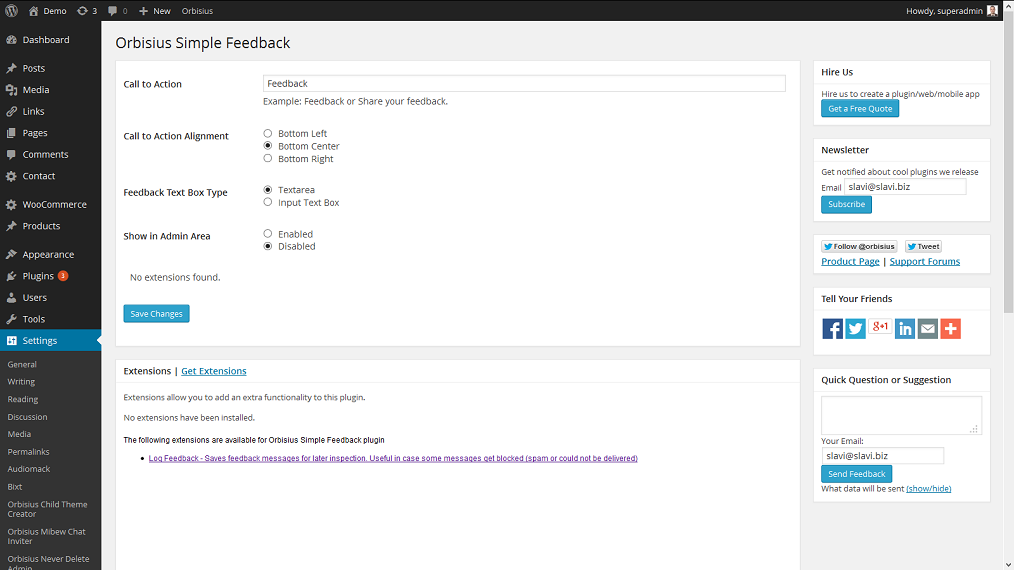
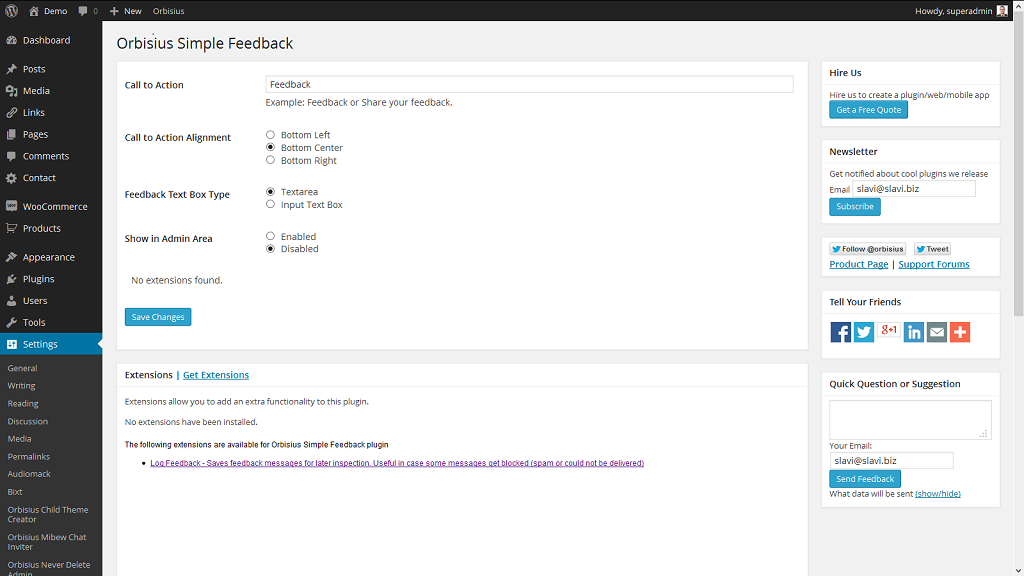
made the feedback box and the email box occupy as much space as the feedback container so it looks nice. updated the 2 of the screenshots files and readme
git-svn-id: https://plugins.svn.wordpress.org/orbisius-simple-feedback/trunk@866357 b8457f37-d9ea-0310-8a92-e5e31aec5664

diff --git a/assets/main.min.css b/assets/main.min.css
@@ -6,9 +6,7 @@
 .orbisius_simple_feedback_container .feedback_wrapper_bottom_center{float:left;margin-left:45%}
 .orbisius_simple_feedback_container .feedback_wrapper_bottom_left{float:left}
 .orbisius_simple_feedback_container .feedback_wrapper_bottom_right{float:right}
-.orbisius_simple_feedback_container .feedback_wrapper_short{_width:5%}
-.orbisius_simple_feedback_container .feedback_text{width:60%;padding:5px}
-.orbisius_simple_feedback_container .feedback_email{width:25%;padding:5px}
+.orbisius_simple_feedback_container .feedback_text,.orbisius_simple_feedback_container .feedback_email{width:96%;padding:5px}
 .orbisius_simple_feedback_container input[type=submit]{padding:3px}
 .orbisius_simple_feedback_container .powered_by{text-align:right;vertical-align:bottom;font-size:12px}
 .orbisius_simple_feedback_container .close_button_link{float:right;color:red;text-decoration:none;font-weight:bolder;padding:3px}

diff --git a/assets/main.css b/assets/main.css
@@ -49,22 +49,13 @@
     float: right;
 }
 
-.orbisius_simple_feedback_container .feedback_wrapper_short {
-    _width: 5%;
-}
-
 .orbisius_simple_feedback_container .feedback {
 
 }
 
-.orbisius_simple_feedback_container .feedback_text {
-    width: 60%;
+.orbisius_simple_feedback_container .feedback_text, .orbisius_simple_feedback_container .feedback_email {
+    width: 96%;
     padding:5px;
-}
-
-.orbisius_simple_feedback_container .feedback_email {
-    padding:5px;
-    width: 25%;
 }
 
 .orbisius_simple_feedback_container input[type=submit] {

diff --git a/orbisius-simple-feedback.php b/orbisius-simple-feedback.php
@@ -153,7 +153,13 @@ function orbisius_simple_feedback_inject_feedback() {
         return ;
     }
 
-    $xyz = "<a href='{$data['url']}' target='_blank'>{$data['name']}</a>";
+    $url = preg_replace('#\?.*#si', '', $data['url']);
+
+    $site = site_url();
+    $site = urlencode($site);
+    $url .= "?utm_source=$site&utm_medium=frontend&utm_campaign=product";
+    
+    $xyz = "<a href='$url' target='_blank' title='opens in a new tab/page.'>{$data['name']}</a>";
 
     $powered_by_line = "<div class='powered_by'>Powered by $xyz</div>";
 
